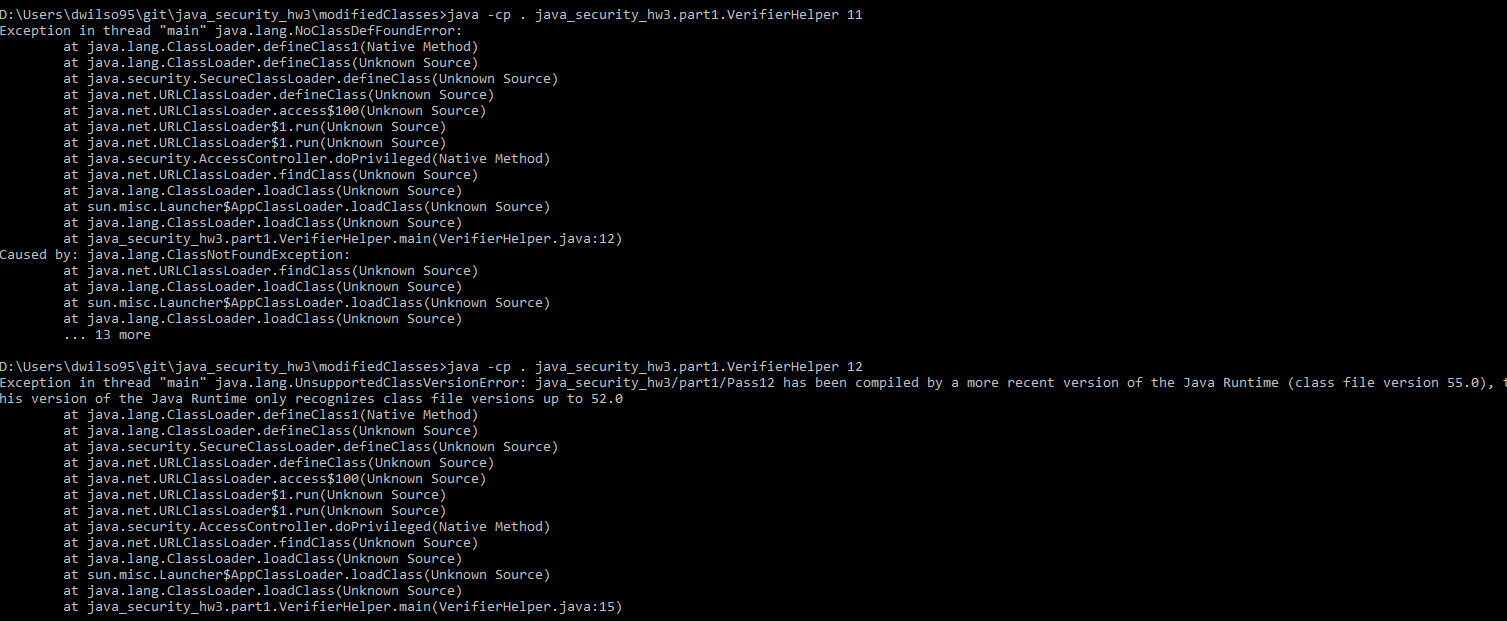
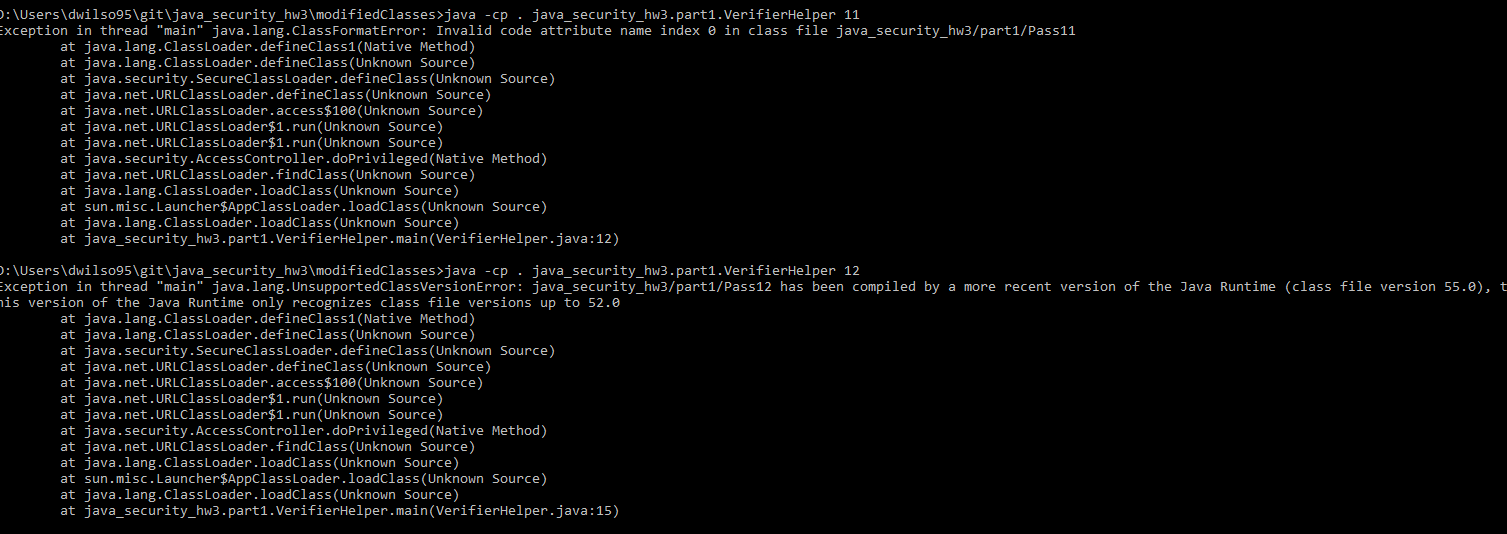
Updated Pass11 docs, modified class file, and screenshot.

Changed region(s): [[0.0, 0.0, 1.0, 0.9888]]

diff --git a/src/main/java/java_security_hw3/part1/Pass11.java b/src/main/java/java_security_hw3/part1/Pass11.java
@@ -1,7 +1,8 @@
 package java_security_hw3.part1;
 
 /**
- * This class does nothing. It will be manipulated to have an incorrect magic number
+ * This class does nothing. It will be manipulated to have a corrupt constants
+ * section.
  */
 public class Pass11 {
 
